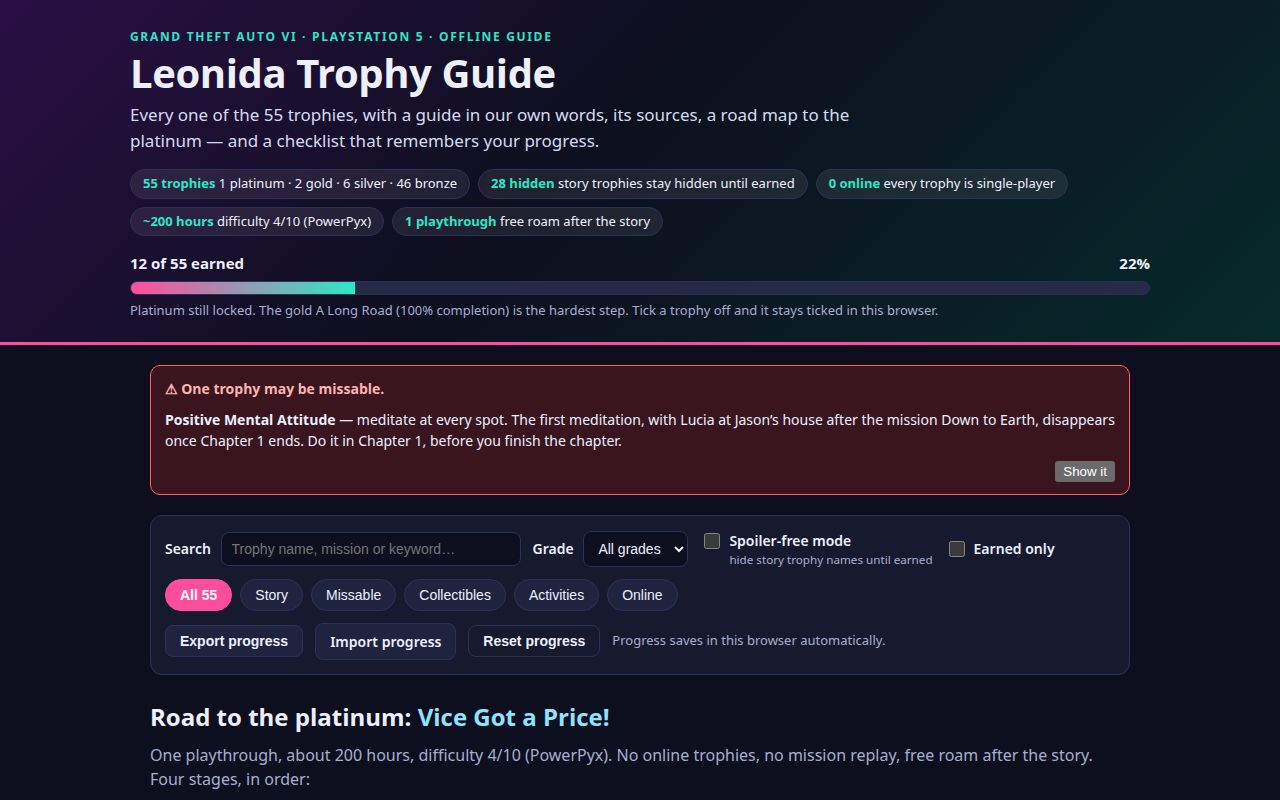
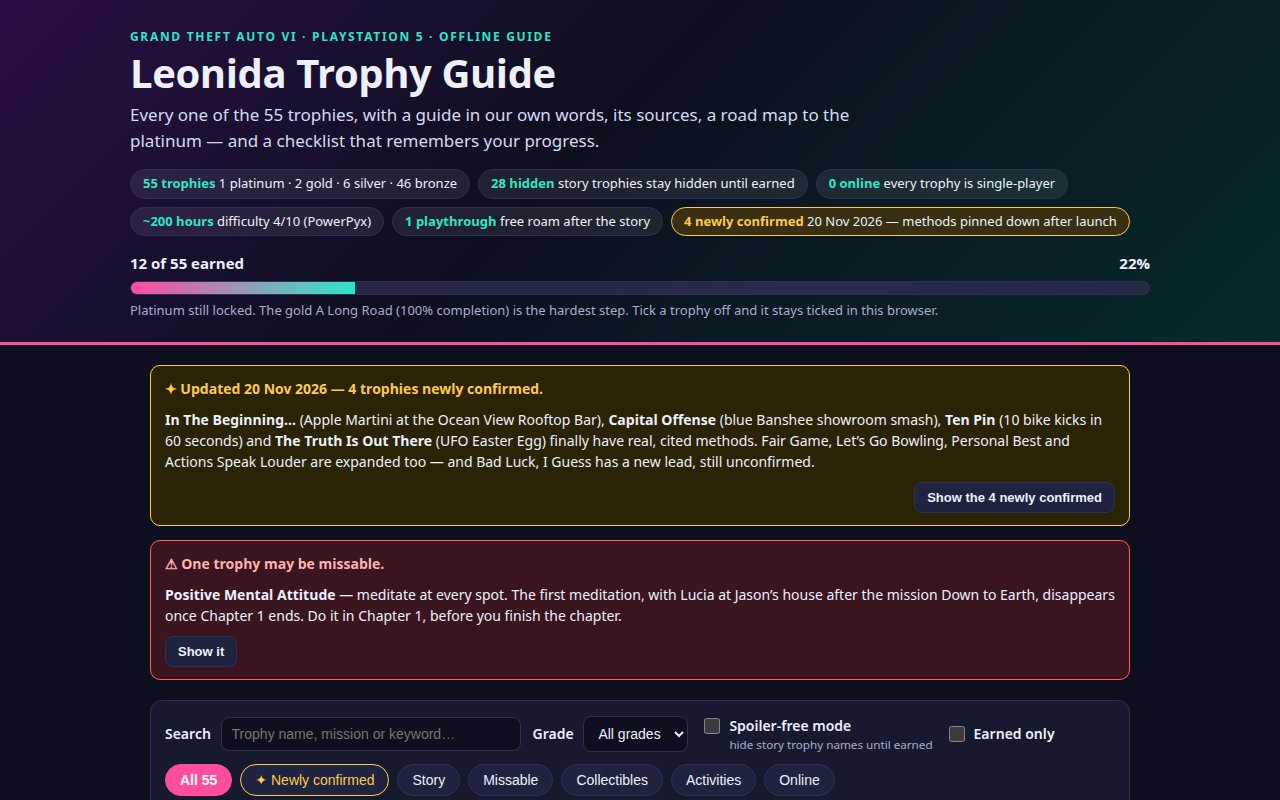
GTA 6 trophy guide round 2: 4 trophies newly confirmed 20 Nov 2026, all 55 guides rewritten, newly-confirmed filter + badges
- In The Beginning, Capital Offense, Ten Pin, The Truth Is Out There now have
  confirmed, cited methods (PowerPyx, 20 Nov 2026; GameRant corroborates UFO)
- Fair Game, Let's Go Bowling, Personal Best, Actions Speak Louder expanded
  with confirmed detail; Positive Mental Attitude gains the Chapter 1 +1 note
- Bad Luck, I Guess carries PowerPyx's Payday Loans (Little Cuba) lead, still
  marked unconfirmed; old retry speculation removed
- New feature: gold 'Newly confirmed' badges, filter chip (?filter=new),
  update banner, roadmap stars, live count in facts
- main.ts now fails loudly if app/index.html or trophies.json is missing
- All 55 guides and steps rewritten in fresh wording; official names,
  descriptions, grades and hidden flags byte-identical
- Screenshots re-taken in headless Chrome (1280x800), incl. new filter view

diff --git a/app/app.js b/app/app.js
@@ -1,8 +1,10 @@
-// Leonida Trophy Guide — tracker logic. Loads the trophy data, renders the
-// checklist and roadmap, and keeps earned trophies in localStorage. The app
-// makes no network request at run time beyond loading its own data file, and
-// the only links it ever shows are the citation links from the data file,
-// which open only when the reader follows them.
+// Leonida Trophy Guide — tracker logic, round 2.
+// Loads the trophy data, renders the checklist and roadmap, and keeps earned
+// trophies in localStorage. Round 2 adds the "Newly confirmed" view: trophies
+// whose method was confirmed on 20 Nov 2026 carry a badge and a filter chip.
+// The app makes no network request at run time beyond loading its own data
+// file, and the only links it ever shows are the citation links from the data
+// file, which open only when the reader follows them.
 const STORAGE_KEY = 'gta6-trophy-guide-progress-v1';
 const params = new URLSearchParams(window.location.search);
 
@@ -58,6 +60,16 @@ function kindLabel(t) {
   return t.kind;
 }
 
+// A trophy counts as newly confirmed when the data file flags it: its method
+// was pinned down on 20 Nov 2026, after the launch-day guides left it blank.
+function isNewlyConfirmed(t) {
+  return t.newlyConfirmed === true;
+}
+
+function newlyConfirmedCount() {
+  return trophies.filter(isNewlyConfirmed).length;
+}
+
 function isEarned(t) {
   if (params.get('demo') === '1' && DEMO_EARNED.includes(t.id)) return true;
   return earned.has(t.id);
@@ -86,6 +98,12 @@ function renderFacts() {
     span.append(b, document.createTextNode(rest));
     factsEl.append(span);
   }
+  const fresh = document.createElement('span');
+  fresh.className = 'fact fresh-fact';
+  const freshB = document.createElement('b');
+  freshB.textContent = `${newlyConfirmedCount()} newly confirmed `;
+  fresh.append(freshB, document.createTextNode('20 Nov 2026 — methods pinned down after launch'));
+  factsEl.append(fresh);
   $('progressText').textContent = `${earnedCount} of ${total} earned`;
   const pct = total ? Math.round((earnedCount / total) * 100) : 0;
   $('progressPct').textContent = `${pct}%`;
@@ -119,8 +137,8 @@ function renderRoadmap() {
     chips.className = 'stage-chips';
     for (const t of members) {
       const chip = document.createElement('span');
-      chip.className = 'stage-chip' + (isEarned(t) ? ' earned' : '');
-      chip.textContent = (isEarned(t) ? '✓ ' : '') + t.name;
+      chip.className = 'stage-chip' + (isEarned(t) ? ' earned' : '') + (isNewlyConfirmed(t) ? ' fresh-chip' : '');
+      chip.textContent = (isEarned(t) ? '✓ ' : '') + (isNewlyConfirmed(t) ? '★ ' : '') + t.name;
       chips.append(chip);
     }
     const prog = document.createElement('p');
@@ -133,8 +151,9 @@ function renderRoadmap() {
 
 function trophyMatches(t) {
   if (kindFilter === 'missable' && !t.missable) return false;
+  if (kindFilter === 'new' && !isNewlyConfirmed(t)) return false;
   if (kindFilter === 'online') return false; // no online trophies in GTA VI
-  if (kindFilter !== 'all' && kindFilter !== 'missable' && t.kind !== kindFilter) return false;
+  if (kindFilter !== 'all' && kindFilter !== 'missable' && kindFilter !== 'new' && t.kind !== kindFilter) return false;
   if (gradeFilter !== 'all' && t.grade !== gradeFilter) return false;
   if (earnedOnly && !isEarned(t)) return false;
   if (searchText) {
@@ -150,12 +169,16 @@ function renderList() {
   $('emptyNote').hidden = visible.length > 0;
   const shown = visible.length;
   const earnedShown = visible.filter(isEarned).length;
-  $('listNote').textContent = shown === trophies.length
-    ? 'All 55 trophies. Tick one off when you earn it; click a trophy to open its guide and sources.'
-    : `Showing ${shown} of ${trophies.length} trophies (${earnedShown} earned in this view).`;
+  if (kindFilter === 'new') {
+    $('listNote').textContent = `Showing ${shown} trophies whose method was newly confirmed on 20 Nov 2026 (${earnedShown} earned in this view). Each one used to read "unconfirmed" — now it has a real method, cited to PowerPyx.`;
+  } else if (shown === trophies.length) {
+    $('listNote').textContent = 'All 55 trophies. Tick one off when you earn it; click a trophy to open its guide and sources.';
+  } else {
+    $('listNote').textContent = `Showing ${shown} of ${trophies.length} trophies (${earnedShown} earned in this view).`;
+  }
   for (const t of visible) {
     const card = document.createElement('article');
-    card.className = 'card' + (isEarned(t) ? ' earned' : '') + (t.missable ? ' missable-card' : '');
+    card.className = 'card' + (isEarned(t) ? ' earned' : '') + (t.missable ? ' missable-card' : '') + (isNewlyConfirmed(t) ? ' fresh-card' : '');
     card.dataset.trophyId = String(t.id);
 
     const box = document.createElement('input');
@@ -193,6 +216,12 @@ function renderList() {
       mb.className = 'badge missable-badge';
       mb.textContent = 'Potentially missable';
       head.append(mb);
+    }
+    if (isNewlyConfirmed(t)) {
+      const nb = document.createElement('span');
+      nb.className = 'badge new-badge';
+      nb.textContent = 'Newly confirmed · 20 Nov 2026';
+      head.append(nb);
     }
     const kb = document.createElement('span');
     kb.className = 'badge kind-badge';
@@ -275,6 +304,12 @@ function download(filename, text) {
   setTimeout(() => URL.revokeObjectURL(a.href), 1000);
 }
 
+function setKindFilter(kind) {
+  kindFilter = kind;
+  document.querySelectorAll('#kindFilters .kind-btn').forEach((b) => b.classList.toggle('active', b.dataset.kind === kind));
+  renderAll();
+}
+
 async function init() {
   const response = await fetch('data/trophies.json');
   const doc = await response.json();
@@ -285,11 +320,7 @@ async function init() {
   $('spoilerToggle').checked = spoilerMode;
   document.querySelectorAll('#kindFilters .kind-btn').forEach((btn) => {
     btn.classList.toggle('active', btn.dataset.kind === kindFilter);
-    btn.addEventListener('click', () => {
-      kindFilter = btn.dataset.kind;
-      document.querySelectorAll('#kindFilters .kind-btn').forEach((b) => b.classList.toggle('active', b === btn));
-      renderAll();
-    });
+    btn.addEventListener('click', () => setKindFilter(btn.dataset.kind));
   });
   $('gradeFilter').addEventListener('change', (e) => {
     gradeFilter = e.target.value;
@@ -308,12 +339,21 @@ async function init() {
     renderAll();
   });
   $('showMissable').addEventListener('click', () => {
-    kindFilter = 'missable';
-    document.querySelectorAll('#kindFilters .kind-btn').forEach((b) => b.classList.toggle('active', b.dataset.kind === 'missable'));
-    renderAll();
+    setKindFilter('missable');
     const first = document.querySelector('.card.missable-card');
     if (first) first.scrollIntoView({ behavior: 'smooth', block: 'center' });
   });
+  const showNewBtn = $('showNew');
+  if (showNewBtn) {
+    // Label the banner button with the live count, so it stays true even if
+    // the data file gains more newly confirmed trophies in a later round.
+    showNewBtn.textContent = `Show the ${newlyConfirmedCount()} newly confirmed`;
+    showNewBtn.addEventListener('click', () => {
+      setKindFilter('new');
+      const first = document.querySelector('.card.fresh-card');
+      if (first) first.scrollIntoView({ behavior: 'smooth', block: 'center' });
+    });
+  }
   $('exportBtn').addEventListener('click', () => {
     const payload = {
       game: 'Grand Theft Auto VI',

diff --git a/app/index.html b/app/index.html
@@ -4,7 +4,7 @@
 <meta charset="utf-8">
 <meta name="viewport" content="width=device-width, initial-scale=1">
 <title>GTA VI Trophy Guide &amp; Tracker — All 55 PS5 Trophies</title>
-<meta name="description" content="Offline guide and tracker for all 55 Grand Theft Auto VI trophies on PlayStation 5: checklist, cited guides, platinum roadmap and missable warnings.">
+<meta name="description" content="Offline guide and tracker for all 55 Grand Theft Auto VI trophies on PlayStation 5: checklist, cited guides, platinum roadmap, missable warnings, and the 20 Nov 2026 newly-confirmed methods.">
 <link rel="stylesheet" href="style.css">
 </head>
 <body>
@@ -23,6 +23,12 @@
 </header>
 
 <main>
+  <section class="update-banner" aria-label="20 November 2026 update">
+    <strong>&#10022; Updated 20 Nov 2026 — 4 trophies newly confirmed.</strong>
+    <span><b>In The Beginning…</b> (Apple Martini at the Ocean View Rooftop Bar), <b>Capital Offense</b> (blue Banshee showroom smash), <b>Ten Pin</b> (10 bike kicks in 60 seconds) and <b>The Truth Is Out There</b> (UFO Easter Egg) finally have real, cited methods. Fair Game, Let&rsquo;s Go Bowling, Personal Best and Actions Speak Louder are expanded too — and Bad Luck, I Guess has a new lead, still unconfirmed.</span>
+    <button type="button" id="showNew">Show the 4 newly confirmed</button>
+  </section>
+
   <section class="warn" id="missableBanner" aria-label="Missable trophy warning">
     <strong>&#9888; One trophy may be missable.</strong>
     <span><b>Positive Mental Attitude</b> — meditate at every spot. The first meditation, with Lucia at Jason&rsquo;s house after the mission Down to Earth, disappears once Chapter 1 ends. Do it in Chapter 1, before you finish the chapter.</span>
@@ -46,6 +52,7 @@
     </div>
     <div class="filter-row" id="kindFilters" role="group" aria-label="Filter by kind">
       <button type="button" data-kind="all" class="kind-btn active">All 55</button>
+      <button type="button" data-kind="new" class="kind-btn fresh-btn">&#10022; Newly confirmed</button>
       <button type="button" data-kind="story" class="kind-btn">Story</button>
       <button type="button" data-kind="missable" class="kind-btn">Missable</button>
       <button type="button" data-kind="collectibles" class="kind-btn">Collectibles</button>
@@ -62,22 +69,22 @@
 
   <section class="roadmap" id="roadmapSection" aria-label="Roadmap to the platinum">
     <h2>Road to the platinum: <span class="platinum-name">Vice Got a Price!</span></h2>
-    <p class="roadmap-intro">One playthrough, about 200 hours, difficulty 4/10 (PowerPyx). No online trophies, no mission replay, free roam after the story. Four stages, in order:</p>
+    <p class="roadmap-intro">One playthrough, about 200 hours, difficulty 4/10 (PowerPyx). No online trophies, no mission replay, free roam after the story. Four stages, in order. Newly confirmed trophies are marked &#9733; in the stage chips below.</p>
     <div id="roadmapStages"></div>
   </section>
 
   <section aria-label="Trophy checklist">
     <h2 id="listHeading">Trophy checklist</h2>
-    <p class="list-note" id="listNote"></p>
+    <p class="list-note" id="listNote" aria-live="polite"></p>
     <div id="trophyList" class="trophy-list"></div>
     <p class="empty-note" id="emptyNote" hidden>No trophies match these filters. Try clearing the search or choosing another kind.</p>
   </section>
 
   <section class="about">
     <h2>About this guide</h2>
-    <p>Names and descriptions are the official PlayStation text, as listed by Exophase and PSNProfiles on 18 November 2026. Every guide on this page is written in our own words for this entry and names its sources beside it — a specific location or step only counts here when it cites where it came from. Where no reliable method was known on launch day (19 November 2026), the guide says so plainly instead of inventing one.</p>
+    <p>Names and descriptions are the official PlayStation text, as listed by Exophase and PSNProfiles on 18 November 2026. Every guide on this page is written in our own words for this entry and names its sources beside it — a specific location or step only counts here when it cites where it came from. Where no reliable method was known on launch day (19 November 2026), the guide says so plainly instead of inventing one. On 20 November 2026 four more methods were confirmed by PowerPyx and are marked &ldquo;Newly confirmed&rdquo; in this guide; one more trophy, Bad Luck, I Guess, gained a lead that is still marked unconfirmed.</p>
     <p>There are no online trophies: all 55 are single-player. Cheats disable trophies and saving, so keep trophy runs cheat-free. This app works fully offline: it loads nothing from the network, and your progress never leaves your browser unless you export it.</p>
-    <p class="sources-line">Main sources: PowerPyx — GTA 6 Trophy Guide &amp; Roadmap; GTA Zone — GTA 6 Trophy List; PlanetGTA6 — GTA 6 Trophies; Push Square — GTA 6 Trophy Guide; Beebom — GTA 6 Meditation Spots; The Gamers Hub — GTA 6 100% Completion Checklist.</p>
+    <p class="sources-line">Main sources: PowerPyx — GTA 6 Trophy Guide &amp; Roadmap; GTA Zone — GTA 6 Trophy List; PlanetGTA6 — GTA 6 Trophies; Push Square — GTA 6 Trophy Guide; Beebom — GTA 6 Meditation Spots; The Gamers Hub — GTA 6 100% Completion Checklist; GameRant — GTA 6 UFO / Aliens Location; GTABase — GTA 6 Achievements &amp; Trophies List.</p>
   </section>
 </main>
 

diff --git a/app/style.css b/app/style.css
@@ -1,5 +1,7 @@
 /* Leonida Trophy Guide — original styling, no game art. Deep night-sky base,
-   Vice-City neon pink and teal accents. System fonts only, nothing fetched. */
+   Vice-City neon pink and teal accents, with a gold star treatment for the
+   trophies whose methods were newly confirmed on 20 Nov 2026. System fonts
+   only, nothing fetched. */
 * { box-sizing: border-box; }
 :root {
   --bg: #0d0f1e;
@@ -36,18 +38,31 @@ h1 { margin: 0 0 8px; font-size: 40px; line-height: 1.05; letter-spacing: -.01em
 .facts { display: flex; flex-wrap: wrap; gap: 8px; margin-bottom: 16px; }
 .fact { background: rgba(255,255,255,.08); border: 1px solid var(--line); border-radius: 999px; padding: 4px 12px; font-size: 13px; }
 .fact b { color: var(--teal); }
+.fact.fresh-fact { background: #3a2f10; border-color: var(--gold); }
+.fact.fresh-fact b { color: var(--gold); }
 .progress-line { display: flex; justify-content: space-between; font-weight: 700; font-size: 15px; }
 .progress-bar { height: 14px; background: #262a47; border-radius: 999px; overflow: hidden; margin-top: 6px; border: 1px solid var(--line); }
 .progress-fill { height: 100%; background: linear-gradient(90deg, var(--pink), var(--teal)); transition: width .3s ease; }
 .progress-sub { margin: 6px 0 0; color: var(--muted); font-size: 13px; }
 main { max-width: 1020px; margin: 0 auto; padding: 20px; }
+.update-banner {
+  display: flex; flex-wrap: wrap; gap: 10px; align-items: center;
+  background: #2b2305; border: 1px solid var(--gold); border-radius: 10px;
+  padding: 12px 14px; margin-bottom: 14px; font-size: 14px;
+}
+.update-banner strong { color: var(--gold); }
+.update-banner button { margin-left: auto; }
 .warn {
   display: flex; flex-wrap: wrap; gap: 10px; align-items: center;
   background: #3a1520; border: 1px solid var(--danger); border-radius: 10px;
   padding: 12px 14px; margin-bottom: 20px; font-size: 14px;
 }
 .warn strong { color: #ffb3b3; }
-.warn button { margin-left: auto; }
+.warn button, .update-banner button {
+  background: var(--panel-2); color: var(--text); border: 1px solid var(--line);
+  border-radius: 8px; padding: 7px 12px; font-size: 13px; font-weight: 700; cursor: pointer;
+}
+.warn button:hover, .update-banner button:hover { border-color: var(--teal); }
 .controls { background: var(--panel); border: 1px solid var(--line); border-radius: 12px; padding: 14px; margin-bottom: 24px; }
 .control-row { display: flex; flex-wrap: wrap; gap: 12px; align-items: center; margin-bottom: 10px; }
 .control-row:last-child { margin-bottom: 0; }
@@ -66,7 +81,13 @@ input[type="search"] { width: 300px; max-width: 70vw; }
   border-radius: 999px; padding: 7px 14px; font-size: 14px; cursor: pointer;
 }
 .kind-btn:hover, .btn:hover { border-color: var(--teal); }
+.kind-btn:focus-visible, .btn:focus-visible, .guide-toggle:focus-visible,
+.warn button:focus-visible, .update-banner button:focus-visible {
+  outline: 2px solid var(--teal); outline-offset: 2px;
+}
 .kind-btn.active { background: var(--pink); border-color: var(--pink); color: #fff; font-weight: 700; }
+.kind-btn.fresh-btn { border-color: var(--gold); color: var(--gold); }
+.kind-btn.fresh-btn.active { background: var(--gold); border-color: var(--gold); color: #1a1405; }
 .btn { border-radius: 8px; font-weight: 600; }
 .btn.ghost { background: transparent; }
 .import-btn input { display: none; }
@@ -85,6 +106,7 @@ input[type="search"] { width: 300px; max-width: 70vw; }
 .stage-chips { display: flex; flex-wrap: wrap; gap: 6px; }
 .stage-chip { background: var(--bg); border: 1px solid var(--line); border-radius: 6px; padding: 3px 8px; font-size: 12px; }
 .stage-chip.earned { border-color: var(--teal); color: var(--teal); text-decoration: line-through; }
+.stage-chip.fresh-chip { border-color: var(--gold); color: var(--gold); }
 .stage-progress { font-size: 13px; color: var(--muted); }
 .list-note { color: var(--muted); margin: 0 0 14px; }
 .trophy-list { display: grid; gap: 12px; }
@@ -94,6 +116,7 @@ input[type="search"] { width: 300px; max-width: 70vw; }
 }
 .card.earned { border-color: var(--teal); }
 .card.missable-card { border-left: 5px solid var(--danger); }
+.card.fresh-card { border-left: 5px solid var(--gold); }
 .card input[type="checkbox"] { width: 20px; height: 20px; margin-top: 4px; accent-color: var(--teal); cursor: pointer; }
 .card-head { display: flex; flex-wrap: wrap; gap: 8px; align-items: baseline; }
 .card h3 { margin: 0; font-size: 17px; }
@@ -105,6 +128,7 @@ input[type="search"] { width: 300px; max-width: 70vw; }
 .badge.bronze { background: #3a2415; color: var(--bronze); border: 1px solid var(--bronze); }
 .badge.hidden-badge { background: #2a2f45; color: var(--muted); border: 1px solid var(--line); }
 .badge.missable-badge { background: #3a1520; color: #ffb3b3; border: 1px solid var(--danger); }
+.badge.new-badge { background: #3a2f10; color: var(--gold); border: 1px solid var(--gold); }
 .badge.kind-badge { background: transparent; color: var(--muted); border: 1px solid var(--line); }
 .card .desc { margin: 6px 0 0; color: #d6d9f2; font-style: italic; }
 .card .spoiler-note { margin: 6px 0 0; color: var(--muted); }

diff --git a/main.ts b/main.ts
@@ -1,12 +1,13 @@
 // Entry program for the GTA 6 trophy guide (Node 22, standard library only).
-// The guide itself is plain static files under app/ — an index page, a
-// stylesheet, one module script and the trophy data — with no build step, so
-// handing it in is just copying. This program copies app/ and screenshots/
-// from the repository root into the output directory (by default /output, or
-// whatever MAKEFUN_OUTPUT_DIR names when the grader is not running it) and
-// then writes dossier.json there, built by the vendored make.fun library.
-// vendor/makefun-frontend.ts is the kit's copy and must stay untouched: the
-// scorer rebuilds the dossier with its own copy and compares the two bytes.
+// Round 2 note: the guide itself is plain static files under app/ — an index
+// page, a stylesheet, one module script and the trophy data — with no build
+// step, so handing it in is just copying. This program copies app/ and
+// screenshots/ from the repository root into the output directory (by default
+// /output, or whatever MAKEFUN_OUTPUT_DIR names when the grader is not
+// running it) and then writes dossier.json there, built by the vendored
+// make.fun library. vendor/makefun-frontend.ts is the kit's copy and must
+// stay untouched: the scorer rebuilds the dossier with its own copy and
+// compares the two bytes.
 //
 // Run it locally with:
 //   mkdir -p out && MAKEFUN_OUTPUT_DIR=out node main.ts
@@ -22,6 +23,15 @@ const repoRoot = fileURLToPath(new URL('.', import.meta.url));
 const outputDir = process.env.MAKEFUN_OUTPUT_DIR ?? '/output';
 
 mkdirSync(outputDir, { recursive: true });
+
+// Round 2: fail loudly before copying anything if the app entry point is
+// missing, instead of handing in an output directory with no guide in it.
+if (!existsSync(join(repoRoot, 'app', 'index.html'))) {
+  throw new Error('Refusing to build: app/index.html is missing from the repository.');
+}
+if (!existsSync(join(repoRoot, 'app', 'data', 'trophies.json'))) {
+  throw new Error('Refusing to build: app/data/trophies.json is missing from the repository.');
+}
 
 // The whole app, exactly as it is served.
 cpSync(join(repoRoot, 'app'), join(outputDir, 'app'), { recursive: true });

diff --git a/README.md b/README.md
@@ -6,6 +6,12 @@
 
 An offline guide and tracker for all 55 PlayStation 5 trophies of Grand Theft Auto VI: a checklist with progress saved in the browser, a cited guide for every trophy, a four-stage roadmap to the platinum, missable-trophy warnings, and a spoiler-free mode.
 
+## What changed in round 2 (20 Nov 2026)
+
+Four trophies that were unconfirmed on launch day now have real, cited methods, confirmed by PowerPyx on 20 Nov 2026: **In The Beginning…** (Apple Martini at the Ocean View Rooftop Bar, drunk standing next to the bar), **Capital Offense** (steal the blue Banshee from the south Vice City showroom with the Key Cloner from Chapter 3's "Clonin' Keys, Makin' Gs", then drive through the window), **Ten Pin** (kick 10 pedestrians with Square from any bike within 60 seconds) and **The Truth Is Out There** (UFO Easter Egg north-west of the Starlet Motel in Kelly County, after 2AM, solo — follow the blinking car into the woods; corroborated by GameRant).
+
+The app now marks those four with a gold "Newly confirmed · 20 Nov 2026" badge, a filter chip that shows only them, a gold banner at the top of the page, and a star in the roadmap chips. Open the filtered view directly with `?filter=new`. Four more guides were expanded with confirmed detail: **Fair Game** (Bret's chain opens after Chapter 2's Coffee Break, Jason-only, first quest Veteran Hunted in Lummox County, Killtelligence SM-69 rifle, 15 Target Decks), **Let's Go Bowling** (all 3 Kingpin Bowling valuables: luxury watch, Gutterball Moreland 850 shotgun, safe blown with Sticky Bombs; trophy pops after escaping police; not missable), **Personal Best** (check Strength on the touchpad; train together for double progress; fitness clubs via Map > Activities) and **Actions Speak Louder** (view your count in the trophy list; turn on Criminal Profile HUD notifications). **Positive Mental Attitude** gained a supporting note: the Chapter 1 meditation adds +1 in the Progress menu even though it is not labelled a Meditation Spot, and PowerPyx's author earned the trophy having done it. **Bad Luck, I Guess** is still unconfirmed, but now carries PowerPyx's lead: believed to relate to the Payday Loans store from the Prologue, in Vice City — Little Cuba. All 55 guides and steps were rewritten in fresh wording for this round.
+
 ## Run it
 
 ```sh
